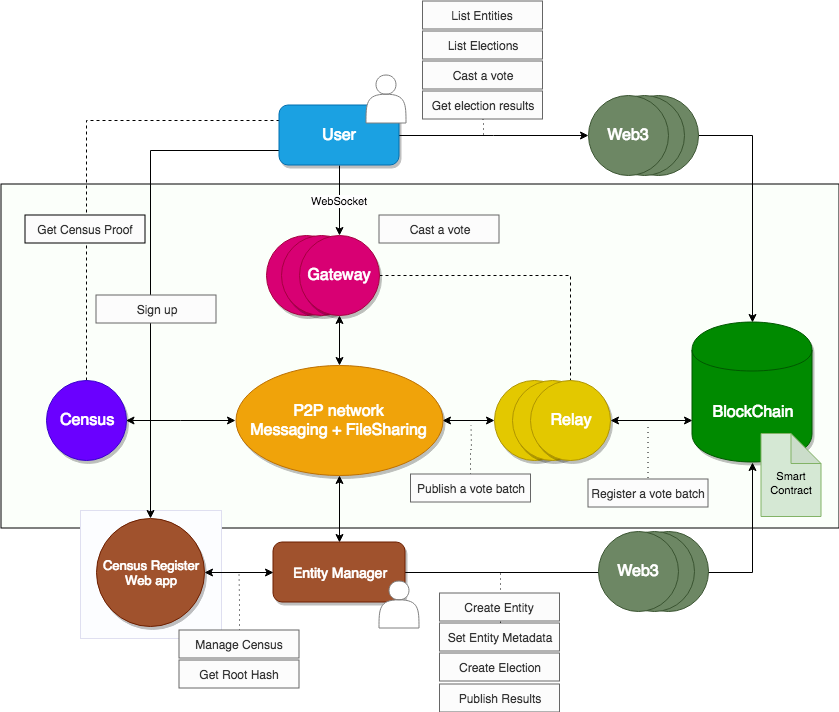
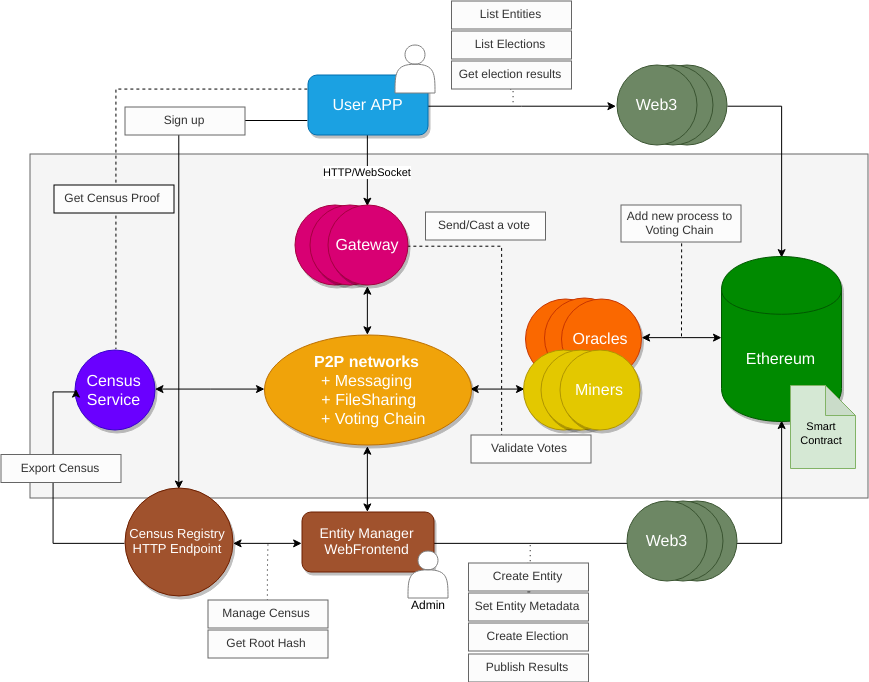
Update architecture main document

Changed region(s): [[0.0, 0.0, 1.0, 1.0], [0.8677, 0.1848, 0.9297, 0.2771]]

diff --git a/docs/architecture/general.md b/docs/architecture/general.md
@@ -1,6 +1,6 @@
 # Global architecture
 
-Electronic voting processes represent a great tech and social challenge. An official binding vote with standard requirements should at least be able to:
+Digital voting processes represent a great tech and social challenge. An official binding vote with standard requirements should at least be able to:
 
 + Enforce vote anonimity
 + Rely on an opensource platform
@@ -11,7 +11,7 @@ Electronic voting processes represent a great tech and social challenge. An offi
 Vocdoni defines an open architechture and the protocols to empower large communities to exercise full democracy with the aforementioned guarantees. 
 
 A fully functional implementation of Vocdoni will typically involve a combination of two types of services. 
-- The public blockchain, Gateways, Relays and decentralized storage systems (open and accessible)
+- A public Ethereum blockchain, Gateways, Census Service, Voting Chain miners/oracles, and decentralized storage systems (open and accessible)
 - Private custom services so that Entities can maintain a census of users (with personal data that should not be disclosed)
 
 ## Service architecture and components
@@ -28,8 +28,8 @@ To provide resilence and avoid any kind of censorship, the network architecture 
 A Vocdoni voting process makes use of the following components:
 
 <!-- ![Main architecture](./architecture-main.svg "Main architecture") -->
-<div style="padding: 20px; background-color: white;">
-	<img src="/docs/architecture/architecture-main.svg" alt="Main architecture"/>
+<div style="padding: 20px;">
+	<img src="/docs/architecture/architecture-main.png" alt="Main architecture"/>
 </div>
 
 + Data integrity is provided by a public BlockChain such as the Ethereum main net.
@@ -41,3 +41,5 @@ A Vocdoni voting process makes use of the following components:
 + The client interface (app or webapp) interacts with the P2P network and the Blockchain through Gateways (using WebSockets or HTTP/RPC). 
 
 * Gateways are neutral/agnostic, since the cryptographic layer happens on the peer side. The only intent of a Gateway is about forwarding requests from clients that can't open a socket by themselves (typically web browsers).
+
+* Election processes are handled in a Proof-of-Authority Blockchain designed specifically and only for this aim
